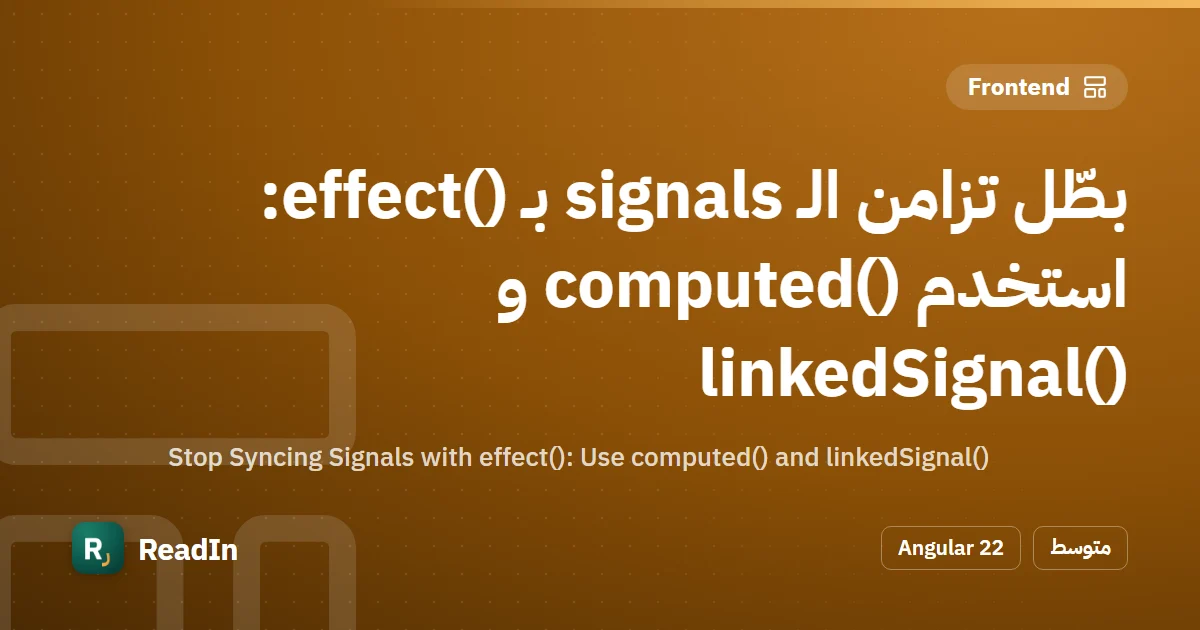
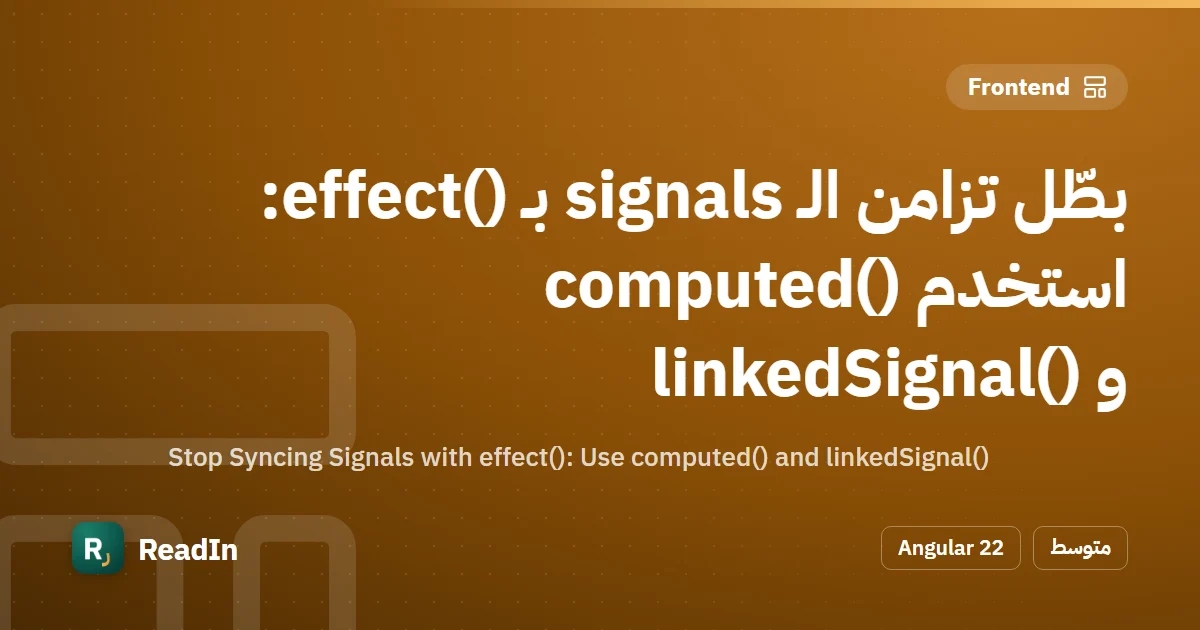
fix(covers): keep a lone "و" on the same line as the English term after it
Titles like «Render و Commit» could end a line on a bare "و". The space
after it, like the one after "الـ", is now non-breaking before an English
run. Committed covers re-rendered.

Changed region(s): [[0.5242, 0.5429, 0.9558, 0.6635], [0.4008, 0.4222, 0.4625, 0.5127]]

diff --git a/tools/content-covers/cover.html b/tools/content-covers/cover.html
@@ -84,7 +84,7 @@
     const text = escape(trimmed);
     // Short runs never wrap, not even at a hyphen ("fire-and-forget").
     return `${trimmed.length <= 24 ? `<bdi class="nw">${text}</bdi>` : `<bdi>${text}</bdi>`}${escape(piece.slice(trimmed.length))}`;
-  }).replace(/ـ (?=<bdi)/g, "ـ&nbsp;");
+  }).replace(/(ـ|(?:^|\s)و) (?=<bdi)/g, "$1&nbsp;"); // "الـ" and a lone "و" stay with the English term after them
 
   window.renderCover = async (d) => {
     const cover = document.getElementById("cover");
